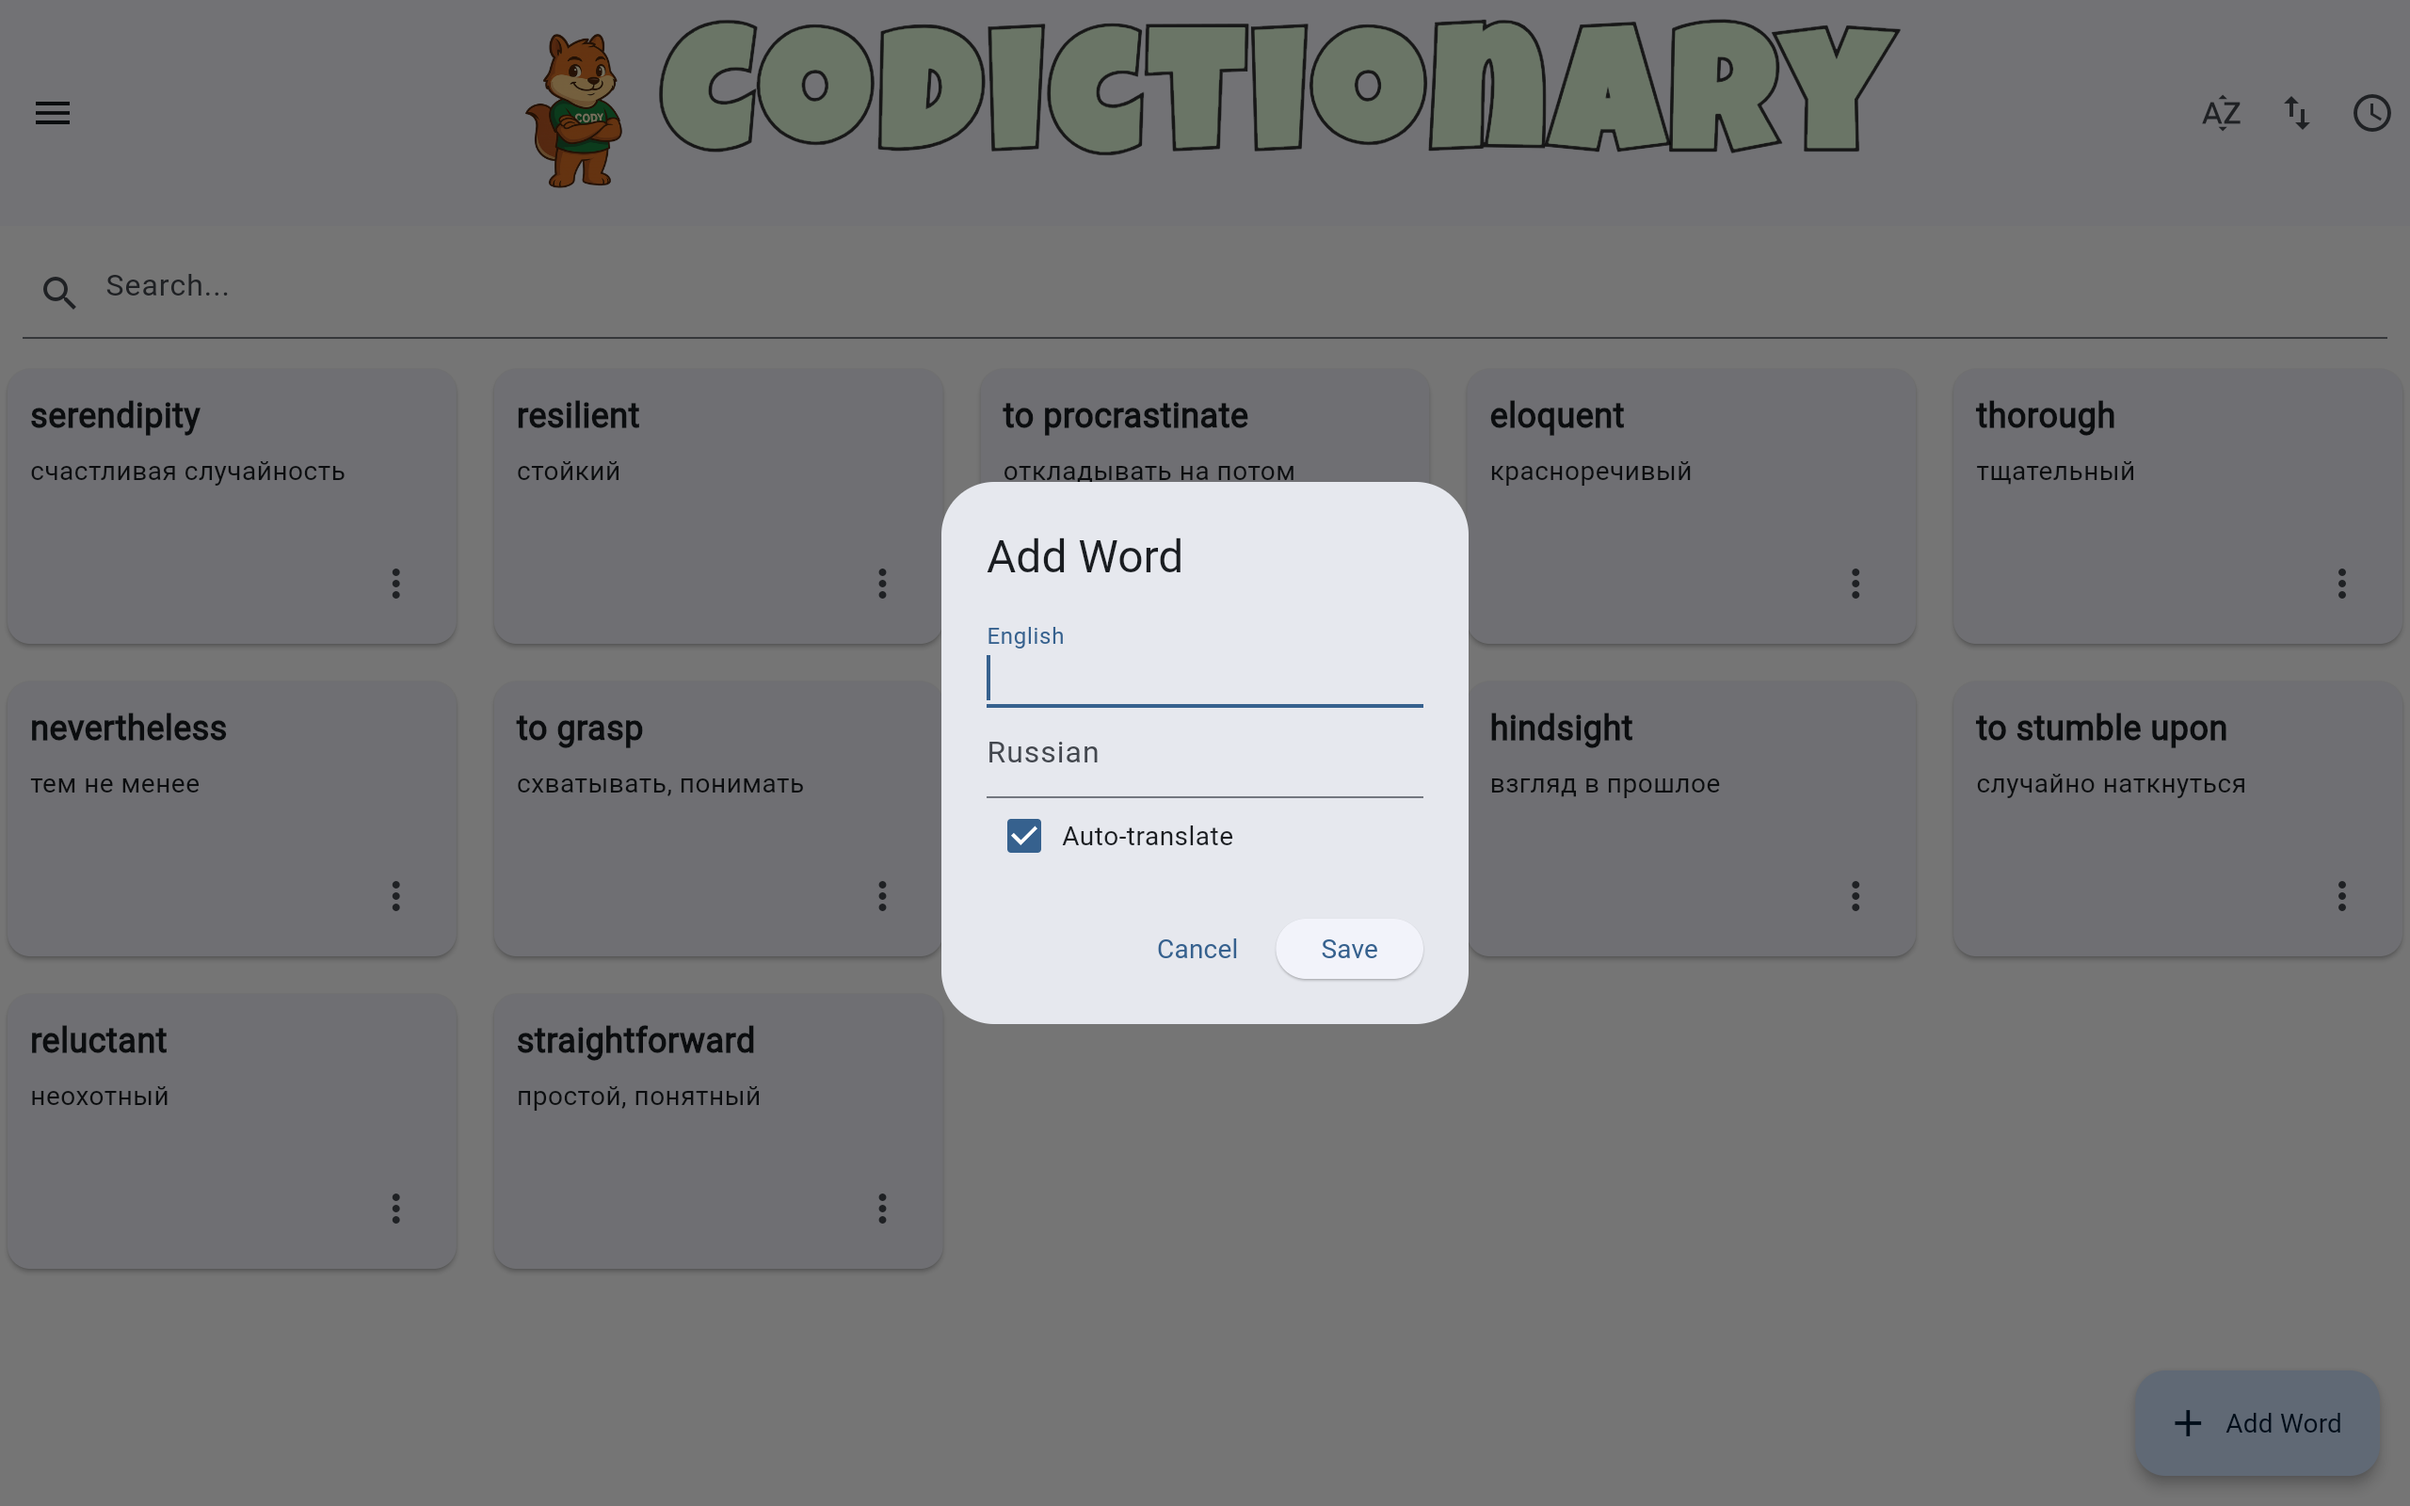
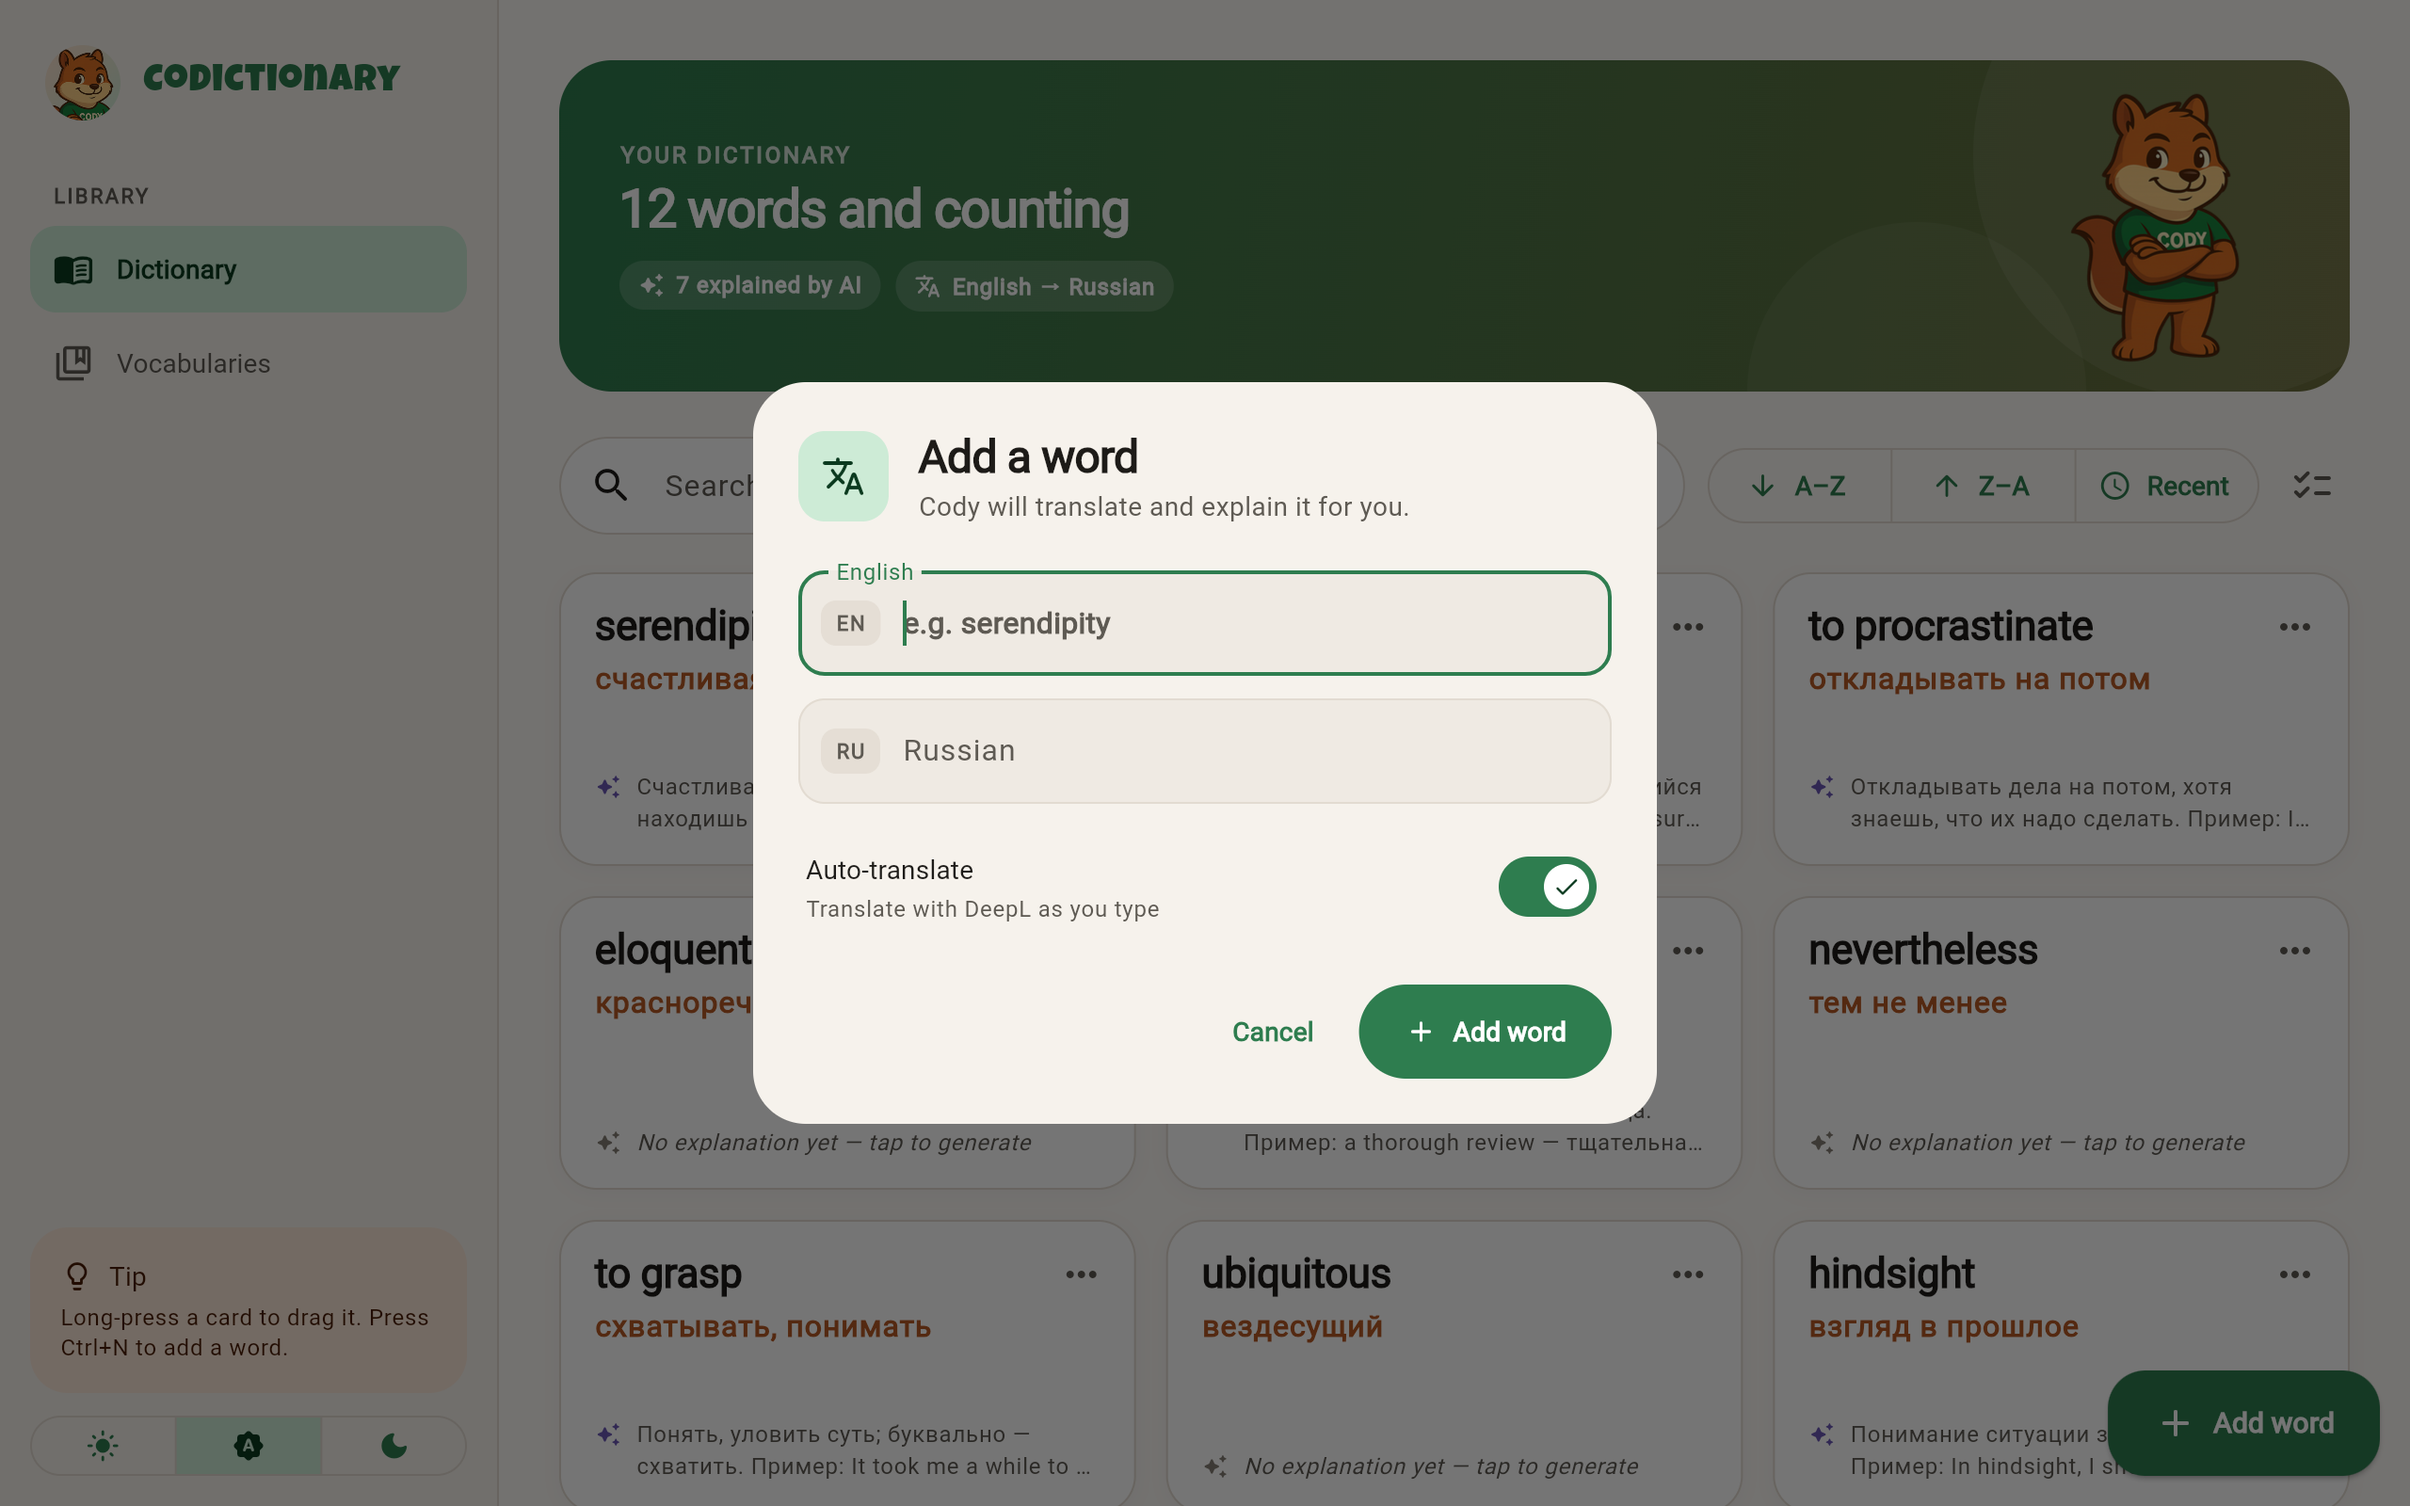
docs(readme): update for the redesign and replace screenshots
Describe the redesigned app (Cody design system, adaptive shell,
themes, word details, shortcuts) and swap in five screenshots from
the web build of this branch.

diff --git a/README.md b/README.md
@@ -1,27 +1,44 @@
 # Codictionary
 
 A personal vocabulary app for learning English words, built with Flutter. Add a
-word, get the Russian translation filled in automatically, and ask for a short or
-detailed explanation with examples when you want more than a translation.
+word, let Cody the squirrel fill in the Russian translation, and ask him for a
+quick or in-depth explanation with examples when a translation isn't enough.
 
-![Codictionary main screen: a grid of word cards with search and sorting](docs/screenshots/dictionary.png)
+![Dictionary screen: sidebar, a banner with word counts, search, sorting and a grid of word cards](docs/screenshots/dictionary.png)
 
 ## Features
 
-- **Word cards** — English word and Russian translation in a grid that adapts to
-  the screen width.
+- **Word cards** — the English word, its Russian translation and a preview of the
+  saved explanation, in a grid that adapts to the screen width.
 - **Auto-translate** — type the English word and the Russian field is filled in
-  through the DeepL API. Turn it off to enter your own translation.
-- **Explanations** — a short or a detailed explanation of a word (meaning, usage,
-  examples), generated in Russian through the OpenAI API and saved with the card.
-- **Search** across both English and Russian.
-- **Sorting** A–Z, Z–A or by date added, plus drag-and-drop to reorder by hand.
-- **Bulk actions** — select several cards and delete them at once, with undo.
-- **Multiple vocabularies** — create, rename and delete separate word lists, each
-  with its own icon.
-- **Duplicate check** — the same English word can't be added to a vocabulary twice.
+  through the DeepL API as you type. Switch it off to enter your own translation.
+- **Explanations** — a quick or an in-depth explanation of a word (meaning, usage,
+  examples), generated in Russian through the OpenAI API. Copy it, or regenerate it
+  if the first answer isn't useful.
+- **Search** across both English and Russian. If nothing matches, the search offers
+  to add the word you typed.
+- **Sorting** A–Z, Z–A or most recent, plus long-press drag-and-drop to reorder by
+  hand.
+- **Bulk actions** — switch to selection mode, pick several cards and delete them at
+  once. Every delete can be undone.
+- **Vocabularies** — themed collections with a name, description and icon. Create,
+  edit and delete them.
+- **Duplicate check** — the same English word can't be added twice.
+- **Light and dark themes**, following the system setting by default.
+- **Adaptive layout** — a sidebar on screens 900px and wider, a bottom navigation
+  bar on phones.
+- **Keyboard shortcuts** — `Ctrl+N` adds a word, `Ctrl+F` jumps to search, `Esc`
+  leaves selection mode.
 
-![Add Word dialog with the Auto-translate option](docs/screenshots/add-word.png)
+| Word details | Adding a word |
+| --- | --- |
+| ![Word details sheet with Quick and In depth tabs and Cody's explanation](docs/screenshots/word-details.png) | ![Add a word dialog with English and Russian fields and the Auto-translate switch](docs/screenshots/add-word.png) |
+
+![Vocabularies screen with three collections](docs/screenshots/vocabularies.png)
+
+<img src="docs/screenshots/phone-dark.png" alt="Phone layout in the dark theme with bottom navigation" width="300">
+
+The screenshots are from the web build with sample data.
 
 ## How it stores data
 
@@ -39,7 +56,6 @@ Everything stays on the device — there is no account and no backend.
 - `reorderable_grid_view` for drag-and-drop
 
 The project has Flutter targets for Android, iOS, web, Windows, macOS and Linux.
-The screenshots above are from the web build.
 
 ## Run it locally
 
@@ -72,21 +88,33 @@ keys in it. Don't publish a build that contains real keys.
 flutter test
 ```
 
+The tests cover the dictionary view model (load, add, edit, delete, regenerating an
+explanation) and the app shell in both wide and narrow layouts.
+
 CI (GitHub Actions) runs the format check, `flutter analyze` and the tests on every
 push and pull request.
+
+## Project structure
+
+- `lib/presentation/theme/` — the design system: colour palette taken from Cody,
+  light and dark themes, spacing, radius and motion tokens.
+- `lib/presentation/shell/` — the adaptive app shell (sidebar or bottom bar).
+- `lib/presentation/dictionary/` — the dictionary view, its view model and widgets
+  (banner, word card, details sheet, word editor, selection bar).
+- `lib/presentation/vocabs/` — the vocabularies view and its dialog.
+- `lib/presentation/dialogs/`, `lib/presentation/widgets/` — shared dialogs and
+  widgets.
+- `lib/domain/` — business logic: `entities`, `repositories` (abstractions),
+  `usecases`.
+- `lib/data/` — repository implementations.
+- `lib/services/` — legacy services (storage, DeepL, OpenAI) that the data layer
+  still wraps.
+- `lib/core/` — shared utilities and DI (`core/di`).
 
 ## Architecture (work in progress)
 
 The code is being migrated step by step towards Clean Architecture with MVVM. The
 target layout and rules are described in [ARCHITECTURE.MD](ARCHITECTURE.MD).
-
-- `lib/core/` — shared utilities and DI (`core/di`).
-- `lib/domain/` — business logic: `entities`, `repositories` (abstractions),
-  `usecases`.
-- `lib/data/` — implementations: `repositories`, `datasources`.
-- `lib/presentation/` — UI: views, view models, dialogs and widgets.
-- `lib/services/` — legacy services (storage, DeepL, OpenAI) that the data layer
-  still wraps.
 
 Bootstrap happens in `main()`, which calls `registerInitialDependencies()` and
 registers the app services in the service locator.
